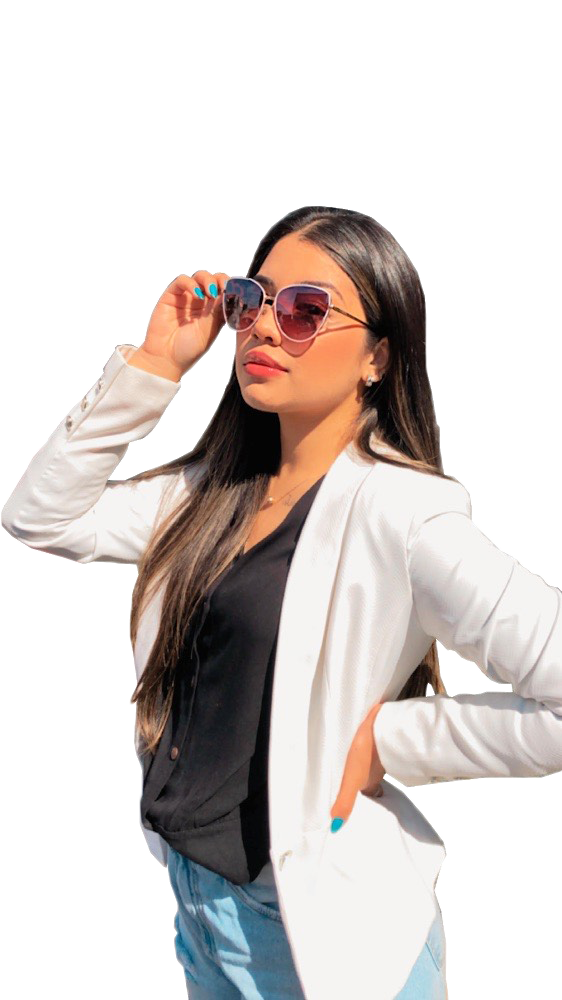
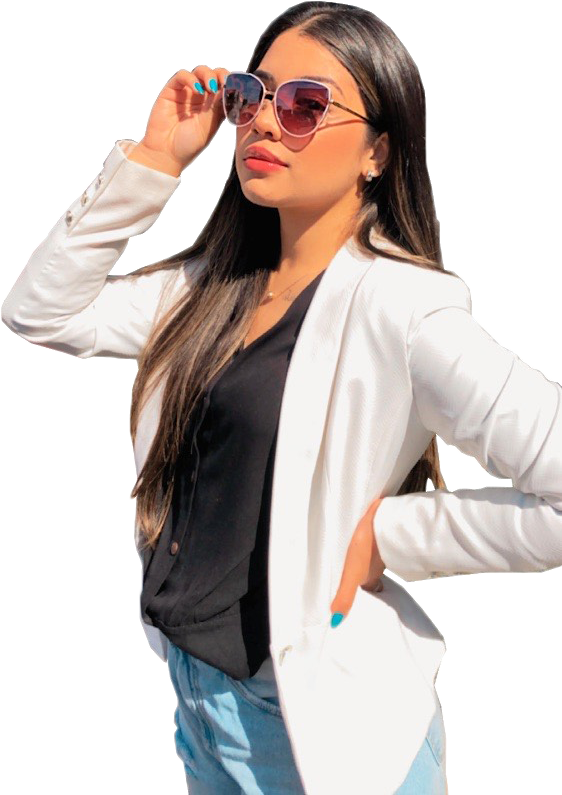
Ajuste em produtos, carrosel adicionado a aba principal

diff --git a/index.html b/index.html
@@ -47,7 +47,32 @@
 						of Lorem Ipsum.</p>
 				</div>
 				<div class="offset-md-1 col-md-4 col-sm-12">
-					<img class="img-responsive" src="assets/Comp1/model-1.png" alt="">
+						<div id="carouselExampleIndicators" class="carousel slide" data-bs-ride="carousel">
+							<div class="carousel-indicators">
+							  <button type="button" data-bs-target="#carouselExampleIndicators" data-bs-slide-to="0" class="active" aria-current="true" aria-label="Slide 1"></button>
+							  <button type="button" data-bs-target="#carouselExampleIndicators" data-bs-slide-to="1" aria-label="Slide 2"></button>
+							  <button type="button" data-bs-target="#carouselExampleIndicators" data-bs-slide-to="2" aria-label="Slide 3"></button>
+							</div>
+							<div class="carousel-inner">
+							  <div class="carousel-item active">
+								<img src="assets/Comp1/model-4.jpeg" class="d-block w-100 img-responsive" alt="...">
+							  </div>
+							  <div class="carousel-item">
+								<img src="assets/Comp1/model-2.jpeg" class="d-block w-100 img-responsive" alt="...">
+							  </div>
+							  <div class="carousel-item">
+								<img src="assets/Comp1/model-3.jpeg" class="d-block w-100 img-responsive" alt="...">
+							  </div>
+							</div>
+							<button class="carousel-control-prev" type="button" data-bs-target="#carouselExampleIndicators" data-bs-slide="prev">
+							  <span class="carousel-control-prev-icon" aria-hidden="true"></span>
+							  <span class="visually-hidden">Previous</span>
+							</button>
+							<button class="carousel-control-next" type="button" data-bs-target="#carouselExampleIndicators" data-bs-slide="next">
+							  <span class="carousel-control-next-icon" aria-hidden="true"></span>
+							  <span class="visually-hidden">Next</span>
+							</button>
+						  </div>
 				</div>
 			</div>
 		</div>
@@ -61,14 +86,21 @@
 			<div class="row">
 				<div class="col-md-6">
 					<h1>Produtos de Qualidade</h1>
-						<p>Com o objetivo de trazer sempre o melhor para o cliente temos produtos de altissima qualidade de construção.</p>
+					<p>Com o objetivo de trazer sempre o melhor para o cliente temos produtos de altissima qualidade de construção.</p>
 				</div>
 			</div>
 			<div class="row">
-				<div class="col-12 gallery">
-					<img src="assets/Comp1/product-1.png" alt="">
-					<img src="assets/Comp1/product-2.png" alt="">
-					<img src="assets/Comp1/product-3.png" alt="">
+				<div class="col-md-3 col-sm-12 gallery">
+					<img class="" src="assets/Comp1/asset-1.jpeg" alt="">
+				</div>
+				<div class="col-md-3 col-sm-12 gallery">
+					<img class="" src="assets/Comp1/asset-2.jpeg" alt="">
+				</div>
+				<div class="col-md-3 col-sm-12 gallery">
+					<img class="" src="assets/Comp1/asset-3.jpeg" alt="">
+				</div>
+				<div class="col-md-3 col-sm-12 gallery">
+					<img class="" src="assets/Comp1/asset-4.jpeg" alt="">					
 				</div>
 			</div>
 		</div>
@@ -78,9 +110,11 @@
 
 <!-- Container Contato-->
 	<section class="lojas">
-		<div class="container">
-			<div class="title">
-				<h1>Nossas Lojas</h1>
+		<div class="container-fluid">
+			<div class="row">
+				<div class="title">
+					<h1>Nossas Lojas</h1>
+				</div>
 			</div>
 			<div class="row justify-content-center">
 				<!-- Itapecerica -->

diff --git a/css/main.css b/css/main.css
@@ -40,8 +40,12 @@ header{
 /*=================================================
 ||				2. Apresentação
 ==================================================*/
+.carousel-item .img-responsive {
+    height: 800px !important;
+	border-radius: 10px;
+}
 .apresentacao{
-	margin: 10px;
+	margin: 20px;
 }
 .apresentacao h1{
 	font-size:80px;
@@ -56,17 +60,23 @@ header{
 }
 .img-responsive{
 	max-width: 800px;
+	height: 800px !important;
 }
 
 /*=================================================
 ||				3. Produtos
 ==================================================*/
+.Produtos{
+	background-color:#f2f2f2;
+	padding:20px;
+}
 .Produtos h1{
 	font-size: 60px;
 }
 .gallery img{
-	max-width:500px;
-	max-height:250px;
+	border-radius: 5px;
+	width: 100%;
+	height: 100%;
 }
 
 /*=================================================
@@ -81,7 +91,8 @@ header{
 	margin: 5px;
 }
 .card{
-	border-radius:10px !important;
+	width: 100%;
+	border-radius:10px;
 	box-shadow: 5px 5px 15px 5px rgba(0,0,0,0.35);
 	margin: 20px !important;
 }
@@ -111,4 +122,13 @@ header{
 		width: 100%;
 		height:100%;
 	}
+	.carousel-item .img-responsive {
+		height: 600px !important;
+		border-radius: 10px;
+	}
+	.gallery img{
+		max-width:350px;
+		max-height:300px;
+	}
+	
 }
